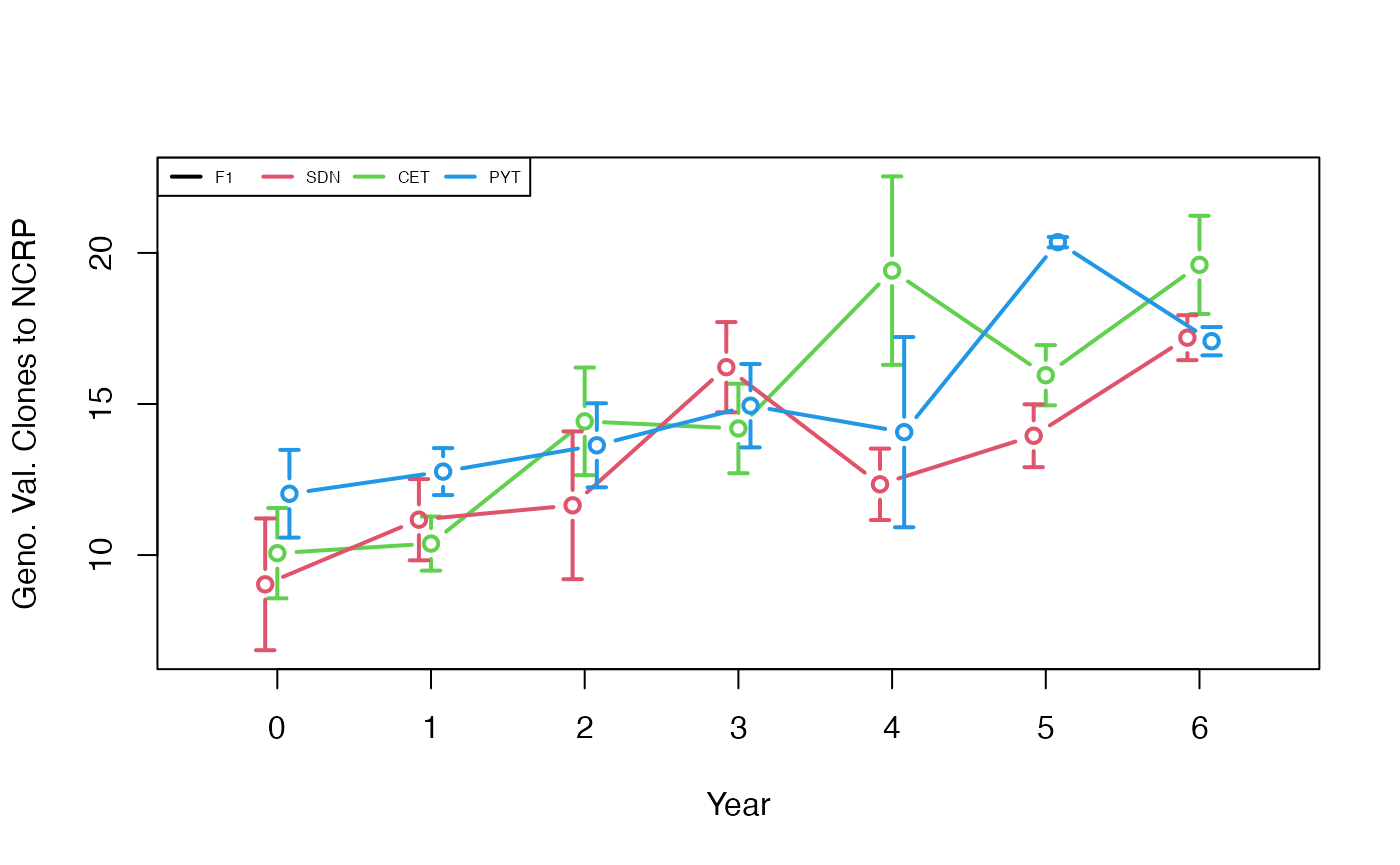
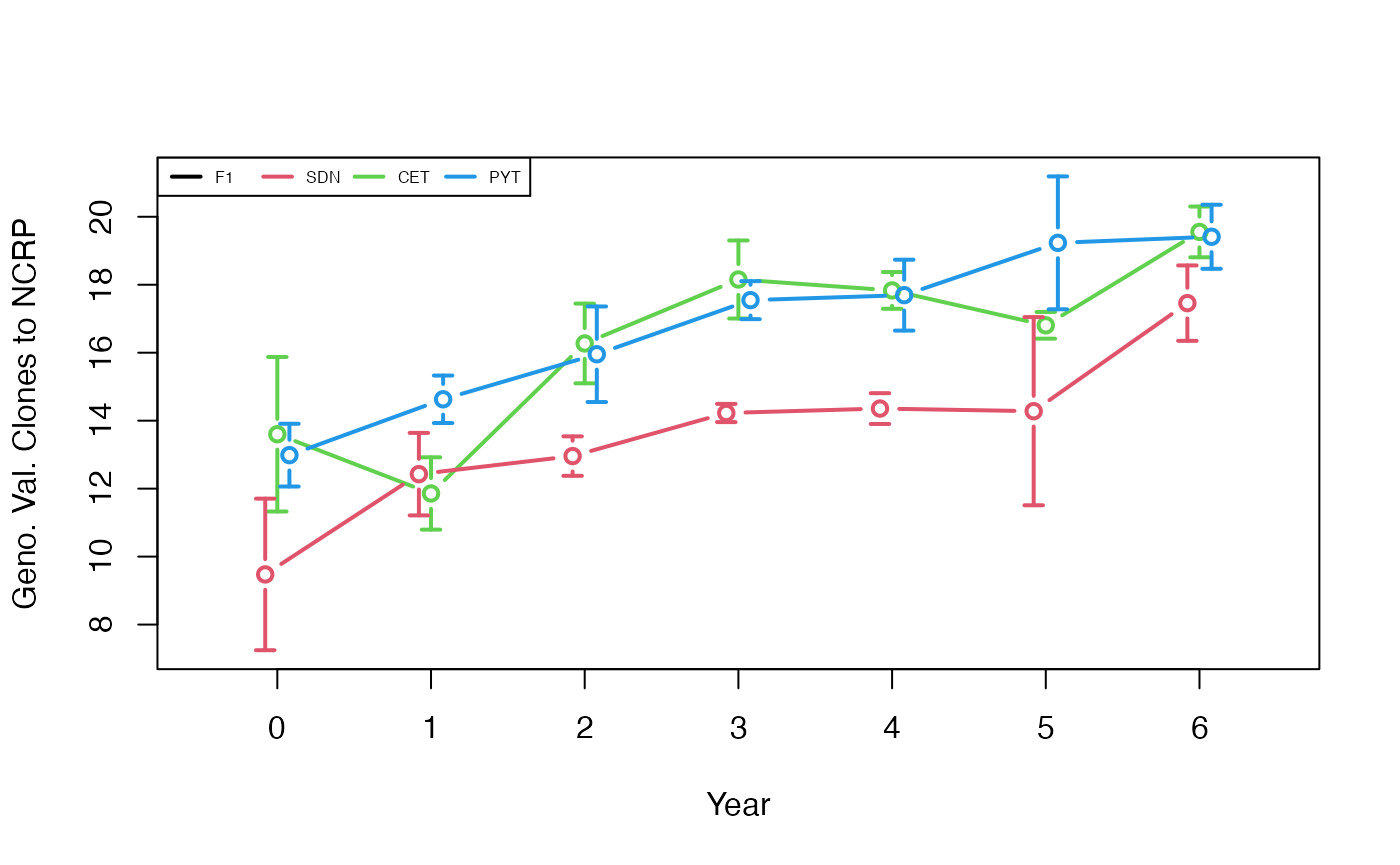
Build reference site

diff --git a/docs/reference/popImprovByParentSel.html b/docs/reference/popImprovByParentSel.html
@@ -6,7 +6,7 @@
 <meta http-equiv="X-UA-Compatible" content="IE=edge">
 <meta name="viewport" content="width=device-width, initial-scale=1.0">
 
-<title>Function to make genomic relation matrices — make_grm • AlphaSimHlpR</title>
+<title>Run population improvement using parent selection — popImprovByParentSel • AlphaSimHlpR</title>
 
 
 <!-- jquery -->
@@ -39,10 +39,21 @@
 
 
 
-<meta property="og:title" content="Function to make genomic relation matrices — make_grm" />
-<meta property="og:description" content="Function to make a genomic relationship matrix to be used to analyze the
-phenotypic records. So far only works with parentSelCritGEBV
-and popImprovementByParentSel." />
+<meta property="og:title" content="Run population improvement using parent selection — popImprovByParentSel" />
+<meta property="og:description" content="Function to improve a simulated breeding population by one cycle.
+This version is adjusted relative to the original popImprov1Cyc function,
+which drew candidates from the full records$F1 (excluding potentially
+indivs only scored during the current year, if useCurrentPhenoTrain=FALSE).
+My changes:
+nTrainPopCycles: draw training pop clones only from this number of recent cycles.
+nYrsAsCandidates: candidates for selection only from this number of recent years
+maxTrainingPopSize: From the lines in the most recent cycles (indicated by nTrainPopCycles),
+ subsample this number of lines for training data. This is in addition to the &quot;check&quot; (bsp$checks@id)
+ and the lines indicates as selection `candidates` according to the setting of `nYrsAsCandidates`.
+ All &quot;historical&quot; data will always be used, but the number of maximum training lines will be held constant.
+ Replaces the stage-specific `bsp$trainingPopCycles`, which will be unused in this pipeline, but not deleted from the package.
+
+" />
 
 
 
@@ -120,56 +131,53 @@ and popImprovementByParentSel." />
 <div class="row">
   <div class="col-md-9 contents">
     <div class="page-header">
-    <h1>Function to make genomic relation matrices</h1>
+    <h1>Run population improvement using parent selection</h1>
     
-    <div class="hidden name"><code>make_grm.Rd</code></div>
+    <div class="hidden name"><code>popImprovByParentSel.Rd</code></div>
     </div>
 
     <div class="ref-description">
-    <p>Function to make a genomic relationship matrix to be used to analyze the
-phenotypic <code>records</code>. So far only works with <code>parentSelCritGEBV</code>
-and <code>popImprovementByParentSel</code>.</p>
+    <p>Function to improve a simulated breeding population by one cycle.
+This version is adjusted relative to the original <code>popImprov1Cyc</code> function,
+which drew <code>candidates</code> from the full <code>records$F1</code> (excluding potentially
+indivs only scored during the current year, if <code>useCurrentPhenoTrain=FALSE</code>).
+My changes:</p><ul>
+<li><p><code>nTrainPopCycles</code>: draw training pop clones only from this number of recent cycles.</p></li>
+<li><p><code>nYrsAsCandidates</code>: candidates for selection only from this number of recent years</p></li>
+<li><p><code>maxTrainingPopSize</code>: From the lines in the most recent cycles (indicated by <code>nTrainPopCycles</code>),
+ subsample this number of lines for training data. This is <em>in addition to</em> the "check" (<code>bsp$checks@id</code>)
+ and the lines indicates as selection `candidates` according to the setting of `nYrsAsCandidates`.
+ All "historical" data will always be used, but the number of maximum training lines will be held constant.
+ Replaces the stage-specific `bsp$trainingPopCycles`, which will be unused in this pipeline, but not deleted from the package.</p></li>
+</ul>
+
     </div>
 
-    <pre class="usage"><span class='fu'>make_grm</span><span class='op'>(</span><span class='va'>records</span>, <span class='va'>indivs2keep</span>, <span class='va'>bsp</span>, <span class='va'>SP</span>, grmType <span class='op'>=</span> <span class='st'>"add"</span><span class='op'>)</span></pre>
+    <pre class="usage"><span class='fu'>popImprovByParentSel</span><span class='op'>(</span><span class='va'>records</span>, <span class='va'>bsp</span>, <span class='va'>SP</span><span class='op'>)</span></pre>
 
     <h2 class="hasAnchor" id="arguments"><a class="anchor" href="#arguments"></a>Arguments</h2>
     <table class="ref-arguments">
     <colgroup><col class="name" /><col class="desc" /></colgroup>
     <tr>
       <th>records</th>
-      <td><p>The breeding program <code>records</code> object. See
-<code>fillPipeline</code> for details</p></td>
-    </tr>
-    <tr>
-      <th>indivs2keep</th>
-      <td><p>chr. vector of id's to be included in the grm. Must be present in <code><a href='https://rdrr.io/r/base/c.html'>c(records$F1,bsp$checks)</a></code>.</p></td>
+      <td><p>The breeding program <code>records</code> object. See <code>fillPipeline</code> for details</p></td>
     </tr>
     <tr>
       <th>bsp</th>
-      <td><p>The breeding scheme parameter list</p></td>
+      <td><p>A list of breeding scheme parameters</p></td>
     </tr>
     <tr>
       <th>SP</th>
-      <td><p>The AlphaSimR SimParam object. Needed to pull the SNP genotypes</p></td>
+      <td><p>The AlphaSimR SimParam object</p></td>
     </tr>
     </table>
 
     <h2 class="hasAnchor" id="value"><a class="anchor" href="#value"></a>Value</h2>
 
-    <p>A genomic relationship matrix</p>
+    <p>A records object with a new F1 Pop-class object of progeny coming out of a population improvement scheme</p>
     <h2 class="hasAnchor" id="details"><a class="anchor" href="#details"></a>Details</h2>
 
-    <p>Setting up to distinguish between parent and cross selection and additive and non-additive predictions.
-Uses <code>genomicMateSelectR</code> functions, which will need to be installed for these to work.</p>
-<p>This version uses the <code><a href='https://rdrr.io/pkg/genomicMateSelectR/man/kinship.html'>genomicMateSelectR::kinship</a></code>.</p>
-<p>Includes a new <code>grmType</code> param, can produce additive and dominance matrices.
-Same matrix as <code>A.mat</code> by default <code>grmType="add"</code>.</p>
-<p><code>records</code> maintains the phenotypic and genotypic records across
-  years and stages. For GEBV analysis, you need the GRM of these individuals.
-  <code>makeGRM</code> assumes the first phenotyping stage (records[[2]]) has all
-  individuals that have been phenotyped. The GRM also includes the
-  unphenotyped new F1 individuals in records[[1]]</p>
+    <p>This function uses penotypic records coming out of the product pipeline to choose individuals as parents to initiate the next breeding cycle</p>
 
   </div>
   <div class="col-md-3 hidden-xs hidden-sm" id="pkgdown-sidebar">

diff --git a/docs/articles/Using_AlphaSimHlpR.html b/docs/articles/Using_AlphaSimHlpR.html
@@ -273,7 +273,7 @@
 <span class="co">#&gt;     names(crit) &lt;- candidates</span>
 <span class="co">#&gt;     return(crit)</span>
 <span class="co">#&gt; }</span>
-<span class="co">#&gt; &lt;bytecode: 0x7f91e4682630&gt;</span>
+<span class="co">#&gt; &lt;bytecode: 0x7fc3a6e8ec88&gt;</span>
 <span class="co">#&gt; &lt;environment: namespace:AlphaSimHlpR&gt;</span>
 <span class="co">#&gt; </span>
 <span class="co">#&gt; $selCritPopImprov</span>
@@ -290,7 +290,7 @@
 <span class="co">#&gt;     names(crit) &lt;- candidates</span>
 <span class="co">#&gt;     return(crit)</span>
 <span class="co">#&gt; }</span>
-<span class="co">#&gt; &lt;bytecode: 0x7f91e4682630&gt;</span>
+<span class="co">#&gt; &lt;bytecode: 0x7fc3a6e8ec88&gt;</span>
 <span class="co">#&gt; &lt;environment: namespace:AlphaSimHlpR&gt;</span>
 <span class="co">#&gt; </span>
 <span class="co">#&gt; $analyzeInbreeding</span>
@@ -387,22 +387,22 @@
 <span class="va">stdErrMeans</span> <span class="op">&lt;-</span> <span class="va">stdErrMeans</span><span class="op">[</span>,<span class="fu"><a href="https://rdrr.io/r/base/c.html">c</a></span><span class="op">(</span><span class="st">"F1"</span>, <span class="va">bsp</span><span class="op">$</span><span class="va">stageNames</span><span class="op">)</span><span class="op">]</span>
 <span class="fu"><a href="https://rdrr.io/r/base/print.html">print</a></span><span class="op">(</span><span class="va">meanMeans</span><span class="op">)</span>
 <span class="co">#&gt;          F1       SDN       CET       PYT</span>
-<span class="co">#&gt; 0  5.604394  4.056313  5.055206  6.523821</span>
-<span class="co">#&gt; 1  6.029205  6.280673  6.000987  7.876717</span>
-<span class="co">#&gt; 2  8.160220  6.943215  8.363276  9.671758</span>
-<span class="co">#&gt; 3  9.162603  8.970246  8.702349 10.909058</span>
-<span class="co">#&gt; 4 10.316206 10.106155 11.267845 11.643232</span>
-<span class="co">#&gt; 5 11.891950 11.178210 11.654428 15.038533</span>
-<span class="co">#&gt; 6 13.186232 12.578929 12.675493 14.115677</span>
+<span class="co">#&gt; 0  5.439799  3.887305  4.442157  6.683244</span>
+<span class="co">#&gt; 1  8.065854  6.421227  6.658497  7.811926</span>
+<span class="co">#&gt; 2  9.104862  9.023853  8.468297  9.909558</span>
+<span class="co">#&gt; 3 10.810704  9.857305 10.509643 12.699869</span>
+<span class="co">#&gt; 4 12.070823 11.486532 11.961375 13.725306</span>
+<span class="co">#&gt; 5 11.829723 12.922221 13.463768 15.309426</span>
+<span class="co">#&gt; 6 14.107831 12.492584 14.272693 16.526035</span>
 <span class="fu"><a href="https://rdrr.io/r/base/print.html">print</a></span><span class="op">(</span><span class="va">stdErrMeans</span><span class="op">)</span>
-<span class="co">#&gt;           F1        SDN       CET       PYT</span>
-<span class="co">#&gt; 0 0.49644414 0.26758731 0.5399668 0.4688699</span>
-<span class="co">#&gt; 1 0.65505479 0.51392141 0.1110036 0.7809276</span>
-<span class="co">#&gt; 2 0.06377411 0.70374701 0.6570008 0.5075190</span>
-<span class="co">#&gt; 3 1.27531884 0.09876694 0.7836526 0.6120011</span>
-<span class="co">#&gt; 4 0.55471252 1.15049695 0.2155974 1.1606779</span>
-<span class="co">#&gt; 5 0.72422547 0.53539562 0.9627447 0.4538345</span>
-<span class="co">#&gt; 6 0.64009214 0.82729190 0.6305127 1.0813006</span></code></pre></div>
+<span class="co">#&gt;          F1       SDN       CET       PYT</span>
+<span class="co">#&gt; 0 0.4348979 0.8962977 0.3270720 0.9904159</span>
+<span class="co">#&gt; 1 0.6339488 0.5665013 1.0432903 0.8362657</span>
+<span class="co">#&gt; 2 0.5298875 0.5155099 0.7929271 0.9487928</span>
+<span class="co">#&gt; 3 0.4024425 0.6827060 0.7315189 0.8383599</span>
+<span class="co">#&gt; 4 1.1927096 0.4259714 0.7449707 0.2711124</span>
+<span class="co">#&gt; 5 0.5678299 1.1402614 0.6115039 0.8751735</span>
+<span class="co">#&gt; 6 0.5893531 0.5173582 1.2907707 0.4823939</span></code></pre></div>
 </div>
 </div>
   </div>

diff --git a/docs/reference/grmPhenoEval.html b/docs/reference/grmPhenoEval.html
@@ -152,7 +152,10 @@
     <h2 class="hasAnchor" id="examples"><a class="anchor" href="#examples"></a>Examples</h2>
     <pre class="examples"><div class='input'><span class='va'>phenoDF</span> <span class='op'>&lt;-</span> <span class='fu'><a href='framePhenoRec.html'>framePhenoRec</a></span><span class='op'>(</span><span class='va'>records</span>, <span class='va'>bsp</span><span class='op'>)</span>
 </div><div class='output co'>#&gt; <span class='error'>Error in framePhenoRec(records, bsp): object 'bsp' not found</span></div><div class='input'><span class='va'>grm</span> <span class='op'>&lt;-</span> <span class='fu'><a href='makeGRM.html'>makeGRM</a></span><span class='op'>(</span><span class='va'>records</span>, <span class='va'>bsp</span>, <span class='va'>SP</span><span class='op'>)</span>
-</div><div class='output co'>#&gt; <span class='error'>Error in makeGRM(records, bsp, SP): object 'records' not found</span></div><div class='input'><span class='va'>grmBLUPs</span> <span class='op'>&lt;-</span> <span class='fu'>grmPhenoEval</span><span class='op'>(</span><span class='va'>phenoDF</span>, <span class='va'>grm</span><span class='op'>)</span>
+</div><div class='output co'>#&gt; <span class='message'>Loading required package: sommer</span></div><div class='output co'>#&gt; <span class='message'>Loading required package: Matrix</span></div><div class='output co'>#&gt; <span class='message'>Loading required package: MASS</span></div><div class='output co'>#&gt; <span class='message'></span>
+#&gt; <span class='message'>Attaching package: ‘MASS’</span></div><div class='output co'>#&gt; <span class='message'>The following object is masked from ‘package:dplyr’:</span>
+#&gt; <span class='message'></span>
+#&gt; <span class='message'>    select</span></div><div class='output co'>#&gt; <span class='message'>Loading required package: lattice</span></div><div class='output co'>#&gt; <span class='message'>Loading required package: crayon</span></div><div class='output co'>#&gt; <span class='error'>Error in makeGRM(records, bsp, SP): object 'records' not found</span></div><div class='input'><span class='va'>grmBLUPs</span> <span class='op'>&lt;-</span> <span class='fu'>grmPhenoEval</span><span class='op'>(</span><span class='va'>phenoDF</span>, <span class='va'>grm</span><span class='op'>)</span>
 </div><div class='output co'>#&gt; <span class='error'>Error in factor(phenoDF$id, levels = rownames(grm)): object 'phenoDF' not found</span></div><div class='input'>
 </div></pre>
   </div>

diff --git a/docs/reference/tidysims.html b/docs/reference/tidysims.html
@@ -149,10 +149,7 @@
                                 populationImprovement <span class='op'>=</span> <span class='va'>popImprov1Cyc</span>,
                                 bsp <span class='op'>=</span> <span class='va'>bsp</span><span class='op'>)</span><span class='op'>)</span>
 </div><div class='output co'>#&gt; <span class='error'>Error in map(1:2, ~runBreedingScheme(replication = ., nCycles = 7, initializeFunc = initFuncADChk,     productPipeline = prodPipeFncChk, populationImprovement = popImprov1Cyc,     bsp = bsp)): could not find function "map"</span></div><div class='input'><span class='va'>sims</span> <span class='op'>&lt;-</span> <span class='fu'>tidysims</span><span class='op'>(</span><span class='va'>sims</span><span class='op'>)</span>
-</div><div class='output co'>#&gt; <span class='message'>Loading required package: magrittr</span></div><div class='output co'>#&gt; <span class='message'></span>
-#&gt; <span class='message'>Attaching package: ‘magrittr’</span></div><div class='output co'>#&gt; <span class='message'>The following object is masked from ‘package:tidyr’:</span>
-#&gt; <span class='message'></span>
-#&gt; <span class='message'>    extract</span></div><div class='output co'>#&gt; <span class='message'>Loading required package: purrr</span></div><div class='output co'>#&gt; <span class='message'></span>
+</div><div class='output co'>#&gt; <span class='message'>Loading required package: magrittr</span></div><div class='output co'>#&gt; <span class='message'>Loading required package: purrr</span></div><div class='output co'>#&gt; <span class='message'></span>
 #&gt; <span class='message'>Attaching package: ‘purrr’</span></div><div class='output co'>#&gt; <span class='message'>The following object is masked from ‘package:magrittr’:</span>
 #&gt; <span class='message'></span>
 #&gt; <span class='message'>    set_names</span></div><div class='output co'>#&gt; <span class='error'>Error in eval_tidy(xs[[j]], mask): object 'sims' not found</span></div></pre>

diff --git a/docs/reference/optContrib.html b/docs/reference/optContrib.html
@@ -164,7 +164,7 @@ If stageToGenotype has been set to a later stage, that might not be true</p>
     <h2 class="hasAnchor" id="examples"><a class="anchor" href="#examples"></a>Examples</h2>
     <pre class="examples"><div class='input'><span class='va'>crit</span> <span class='op'>&lt;-</span> <span class='fu'>bv</span><span class='op'>(</span><span class='va'>records</span><span class='op'>$</span><span class='va'>F1</span><span class='op'>)</span>; <span class='fu'><a href='https://rdrr.io/r/base/names.html'>names</a></span><span class='op'>(</span><span class='va'>crit</span><span class='op'>)</span> <span class='op'>&lt;-</span> <span class='va'>records</span><span class='op'>$</span><span class='va'>F1</span><span class='op'>@</span><span class='va'>id</span>
 </div><div class='output co'>#&gt; <span class='error'>Error in get("SP", envir = .GlobalEnv): object 'SP' not found</span></div><div class='output co'>#&gt; <span class='error'>Error in eval(expr, envir, enclos): object 'records' not found</span></div><div class='input'><span class='va'>progeny</span> <span class='op'>&lt;-</span> <span class='fu'>optContrib</span><span class='op'>(</span><span class='va'>records</span>, <span class='va'>bsp</span>, <span class='va'>SP</span>, <span class='va'>crit</span><span class='op'>)</span>
-</div><div class='output co'>#&gt; <span class='error'>Error in optContrib(records, bsp, SP, crit): object 'bsp' not found</span></div></pre>
+</div><div class='output co'>#&gt; <span class='message'>Loading required package: optiSel</span></div><div class='output co'>#&gt; <span class='error'>Error in optContrib(records, bsp, SP, crit): object 'bsp' not found</span></div></pre>
   </div>
   <div class="col-md-3 hidden-xs hidden-sm" id="pkgdown-sidebar">
     <nav id="toc" data-toggle="toc" class="sticky-top">

diff --git a/docs/reference/parentSelCritGEBV.html b/docs/reference/parentSelCritGEBV.html
@@ -129,7 +129,7 @@ Parents are selected by these criteria e.g. by the popImprov1Cyc populationImpro
 Parents are selected by these criteria e.g. by the <code>popImprov1Cyc populationImprovement function</code></p>
     </div>
 
-    <pre class="usage"><span class='fu'>parentSelCritGEBV</span><span class='op'>(</span><span class='va'>records</span>, <span class='va'>candidates</span>, <span class='va'>bsp</span>, <span class='va'>SP</span><span class='op'>)</span></pre>
+    <pre class="usage"><span class='fu'>parentSelCritGEBV</span><span class='op'>(</span><span class='va'>records</span>, <span class='va'>candidates</span>, <span class='va'>trainingpop</span>, <span class='va'>bsp</span>, <span class='va'>SP</span><span class='op'>)</span></pre>
 
     <h2 class="hasAnchor" id="arguments"><a class="anchor" href="#arguments"></a>Arguments</h2>
     <table class="ref-arguments">
@@ -140,7 +140,11 @@ Parents are selected by these criteria e.g. by the <code>popImprov1Cyc populatio
     </tr>
     <tr>
       <th>candidates</th>
-      <td><p>Character vector of ids of the candidates to be parents</p></td>
+      <td><p>Character vector of ids of the candidates to be parents, not necessarily phenotyped but must be predicted</p></td>
+    </tr>
+    <tr>
+      <th>trainingpop</th>
+      <td><p>chr. vector of ids with phenotypes , but not necessarily in the list of selection candidates, but who should be included in the grm / training model.</p></td>
     </tr>
     <tr>
       <th>bsp</th>

diff --git a/docs/reference/specifyBSP.html b/docs/reference/specifyBSP.html
@@ -162,7 +162,10 @@ Ideally this is useful for programmatically varying breeding schemes.</p>
   useCurrentPhenoTrain <span class='op'>=</span> <span class='cn'>FALSE</span>,
   <span class='va'>nCyclesToKeepRecords</span>,
   <span class='va'>selCritPipeAdv</span>,
-  <span class='va'>selCritPopImprov</span>
+  <span class='va'>selCritPopImprov</span>,
+  <span class='va'>nTrainPopCycles</span>,
+  <span class='va'>nYrsAsCandidates</span>,
+  <span class='va'>maxTrainingPopSize</span>
 <span class='op'>)</span></pre>
 
     <h2 class="hasAnchor" id="arguments"><a class="anchor" href="#arguments"></a>Arguments</h2>
@@ -306,6 +309,18 @@ genotyped. If nothing is specified, the default will be to genotype all F1.</p><
     <tr>
       <th>selCritPopImprov</th>
       <td><p>function used to determine sel crit for pop improv</p></td>
+    </tr>
+    <tr>
+      <th>nTrainPopCycles</th>
+      <td><p>draw training pop lines only from this number of recent cycles.</p></td>
+    </tr>
+    <tr>
+      <th>nYrsAsCandidates</th>
+      <td><p>candidates for selection only from this number of recent years</p></td>
+    </tr>
+    <tr>
+      <th>maxTrainingPopSize</th>
+      <td><p>From the lines in the most recent cycles (indicated by <code>nTrainPopCycles</code>), subsample this number of lines for training data.</p></td>
     </tr>
     </table>
 

diff --git a/docs/reference/iidPhenoEval.html b/docs/reference/iidPhenoEval.html
@@ -148,7 +148,7 @@
     <h2 class="hasAnchor" id="examples"><a class="anchor" href="#examples"></a>Examples</h2>
     <pre class="examples"><div class='input'><span class='va'>phenoDF</span> <span class='op'>&lt;-</span> <span class='fu'><a href='framePhenoRec.html'>framePhenoRec</a></span><span class='op'>(</span><span class='va'>records</span>, <span class='va'>bsp</span><span class='op'>)</span>
 </div><div class='output co'>#&gt; <span class='error'>Error in framePhenoRec(records, bsp): object 'bsp' not found</span></div><div class='input'><span class='va'>iidBLUPs</span> <span class='op'>&lt;-</span> <span class='fu'>iidPhenoEval</span><span class='op'>(</span><span class='va'>phenoDF</span><span class='op'>)</span>
-</div><div class='output co'>#&gt; <span class='error'>Error in iidPhenoEval(phenoDF): object 'phenoDF' not found</span></div><div class='input'>
+</div><div class='output co'>#&gt; <span class='message'>Loading required package: lme4</span></div><div class='output co'>#&gt; <span class='error'>Error in iidPhenoEval(phenoDF): object 'phenoDF' not found</span></div><div class='input'>
 </div></pre>
   </div>
   <div class="col-md-3 hidden-xs hidden-sm" id="pkgdown-sidebar">

diff --git a/docs/reference/tidyrecords.html b/docs/reference/tidyrecords.html
@@ -145,7 +145,7 @@
     <h2 class="hasAnchor" id="examples"><a class="anchor" href="#examples"></a>Examples</h2>
     <pre class="examples"><div class='input'><span class='va'>records</span> <span class='op'>&lt;-</span> <span class='fu'><a href='fillPipeline.html'>fillPipeline</a></span><span class='op'>(</span><span class='va'>founders</span>, <span class='va'>bsp</span>, <span class='va'>SP</span><span class='op'>)</span>
 </div><div class='output co'>#&gt; <span class='error'>Error in fillPipeline(founders, bsp, SP): object 'bsp' not found</span></div><div class='input'><span class='va'>records</span> <span class='op'>&lt;-</span> <span class='fu'>tidyrecords</span><span class='op'>(</span><span class='va'>records</span><span class='op'>)</span>
-</div><div class='output co'>#&gt; <span class='error'>Error in eval_tidy(xs[[j]], mask): object 'records' not found</span></div></pre>
+</div><div class='output co'>#&gt; <span class='error'>Error in unnest(., recs): could not find function "unnest"</span></div></pre>
   </div>
   <div class="col-md-3 hidden-xs hidden-sm" id="pkgdown-sidebar">
     <nav id="toc" data-toggle="toc" class="sticky-top">

diff --git a/docs/reference/index.html b/docs/reference/index.html
@@ -317,6 +317,12 @@
       </tr><tr>
         
         <td>
+          <p><code><a href="popImprovByParentSel.html">popImprovByParentSel()</a></code> </p>
+        </td>
+        <td><p>Run population improvement using parent selection</p></td>
+      </tr><tr>
+        
+        <td>
           <p><code><a href="prodPipeFncChk.html">prodPipeFncChk()</a></code> </p>
         </td>
         <td><p>prodPipeFncChk function</p></td>
@@ -356,12 +362,6 @@
           <p><code><a href="runBreedingScheme.html">runBreedingScheme()</a></code> </p>
         </td>
         <td><p>runBreedingScheme function</p></td>
-      </tr><tr>
-        
-        <td>
-          <p><code><a href="runBreedingScheme_wBurnIn.html">runBreedingScheme_wBurnIn()</a></code> </p>
-        </td>
-        <td><p>Run a breeding scheme including a burn-in period</p></td>
       </tr><tr>
         
         <td>
